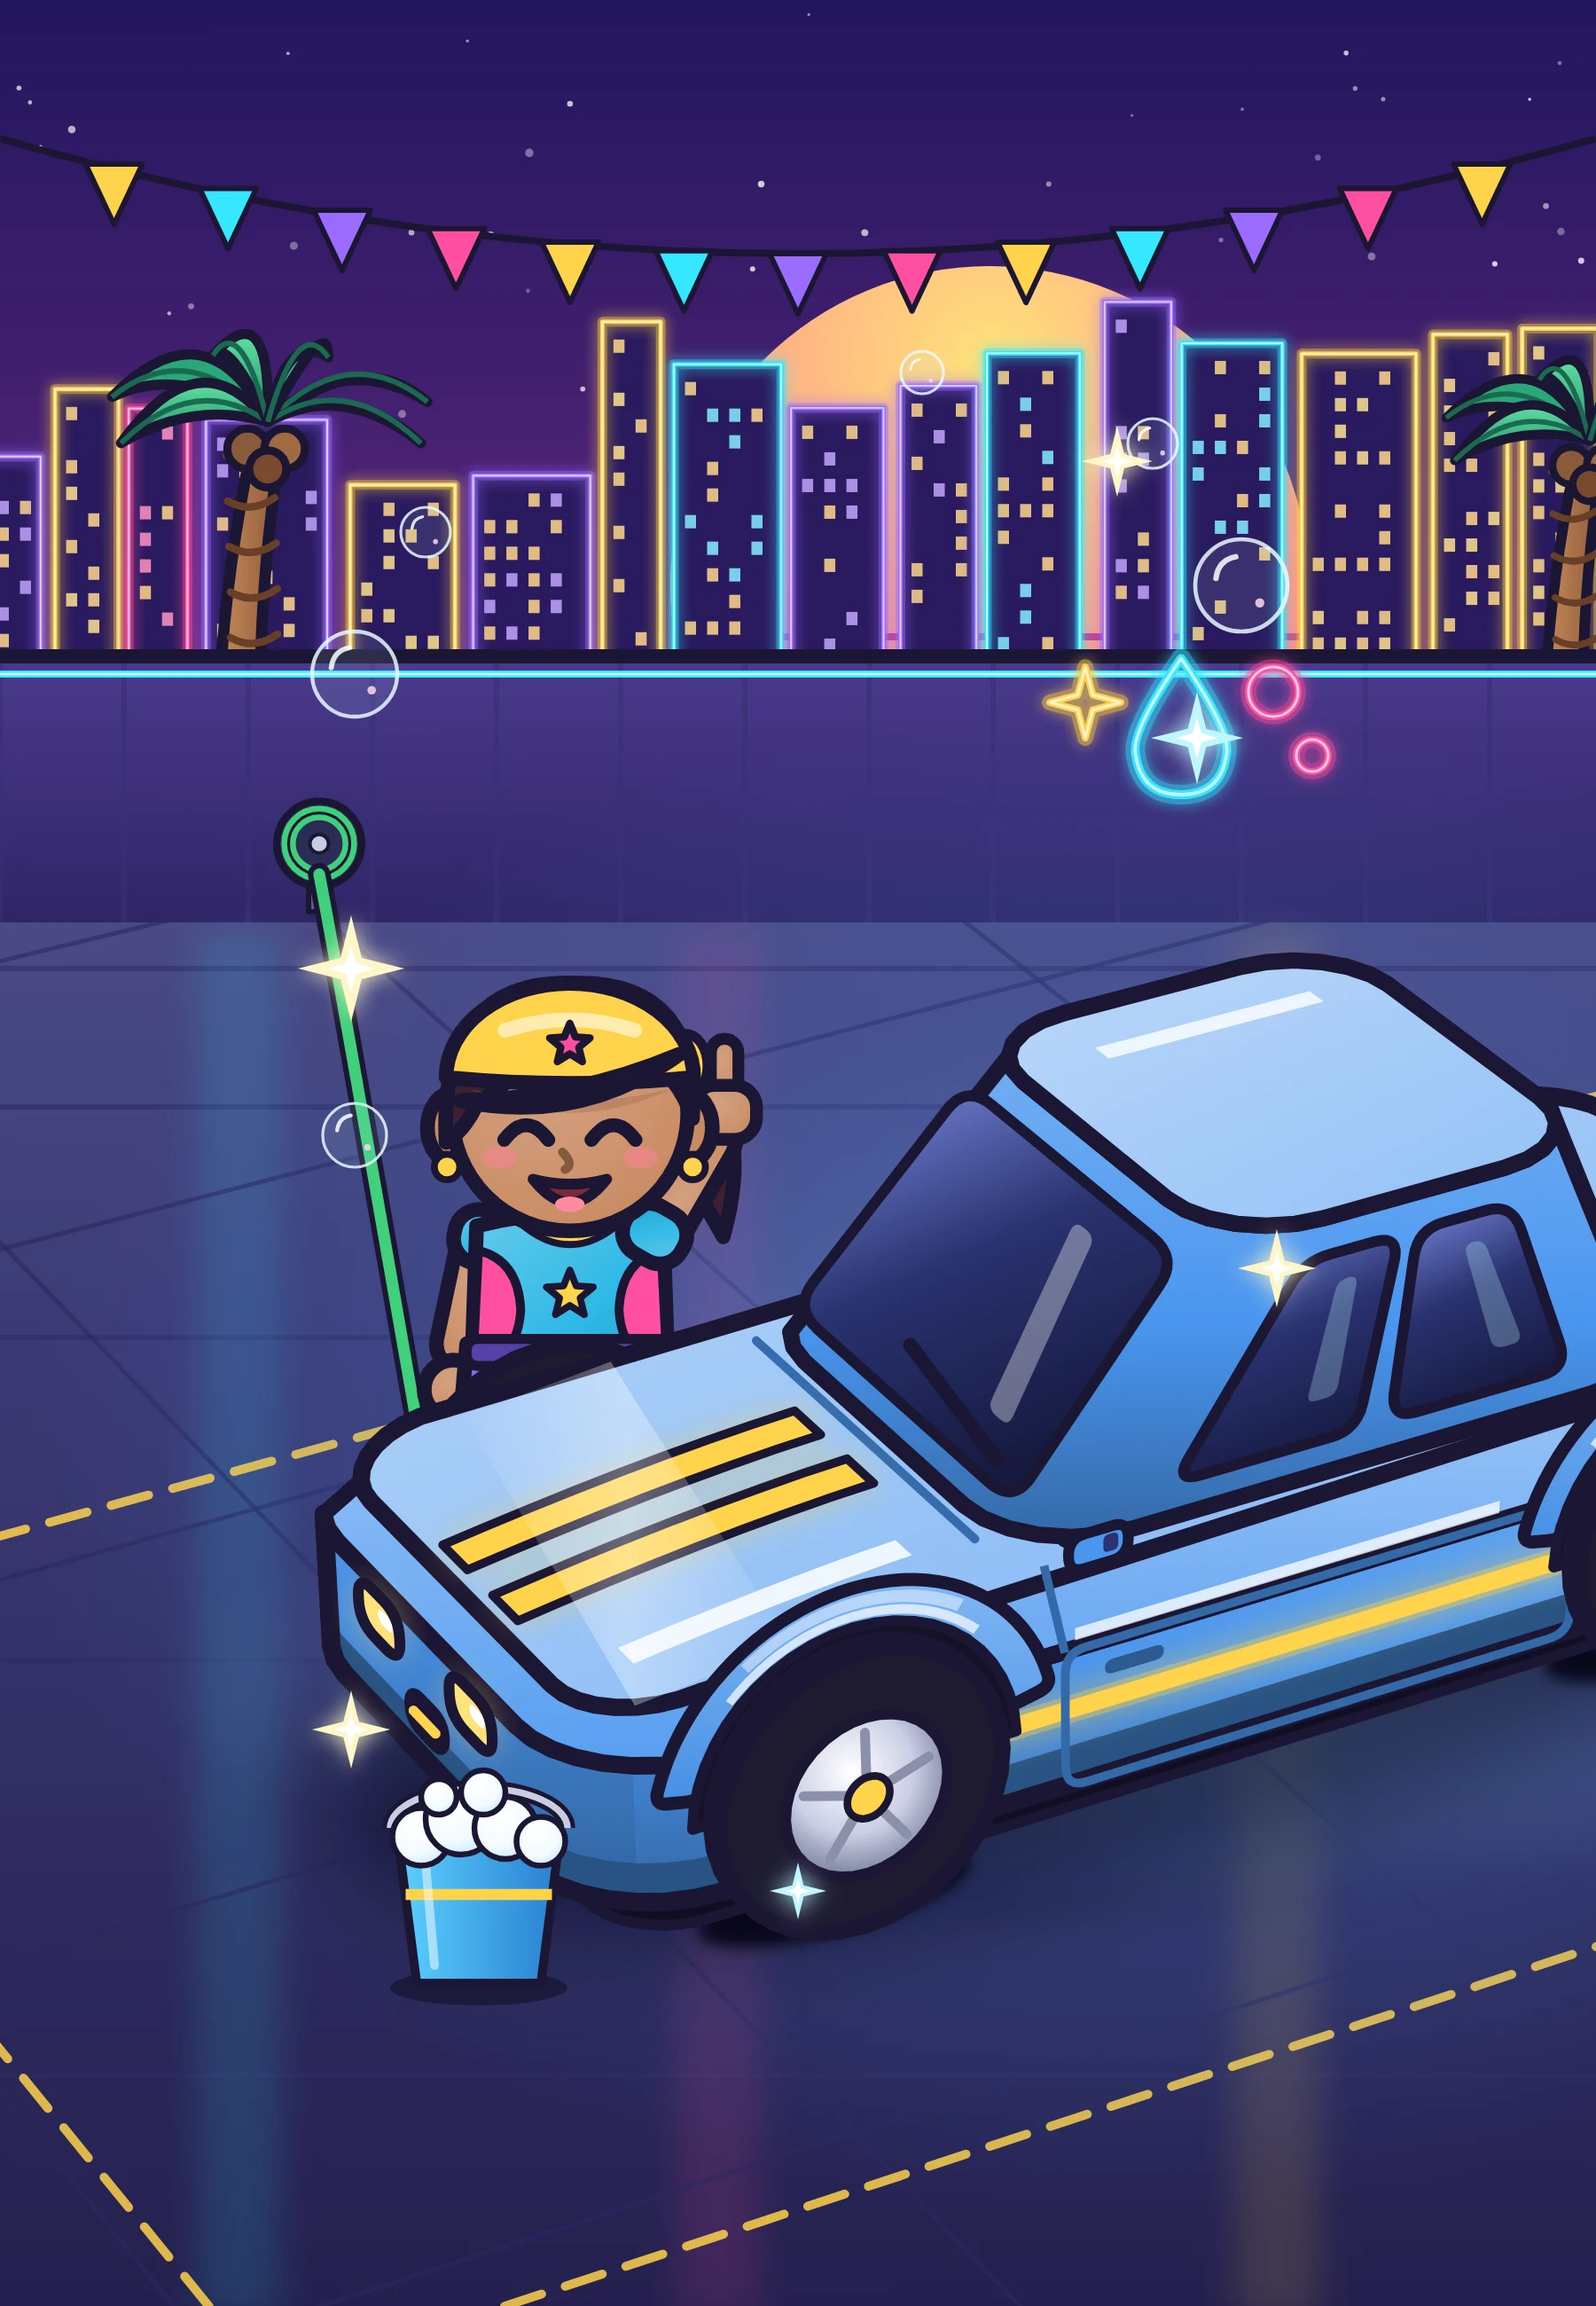
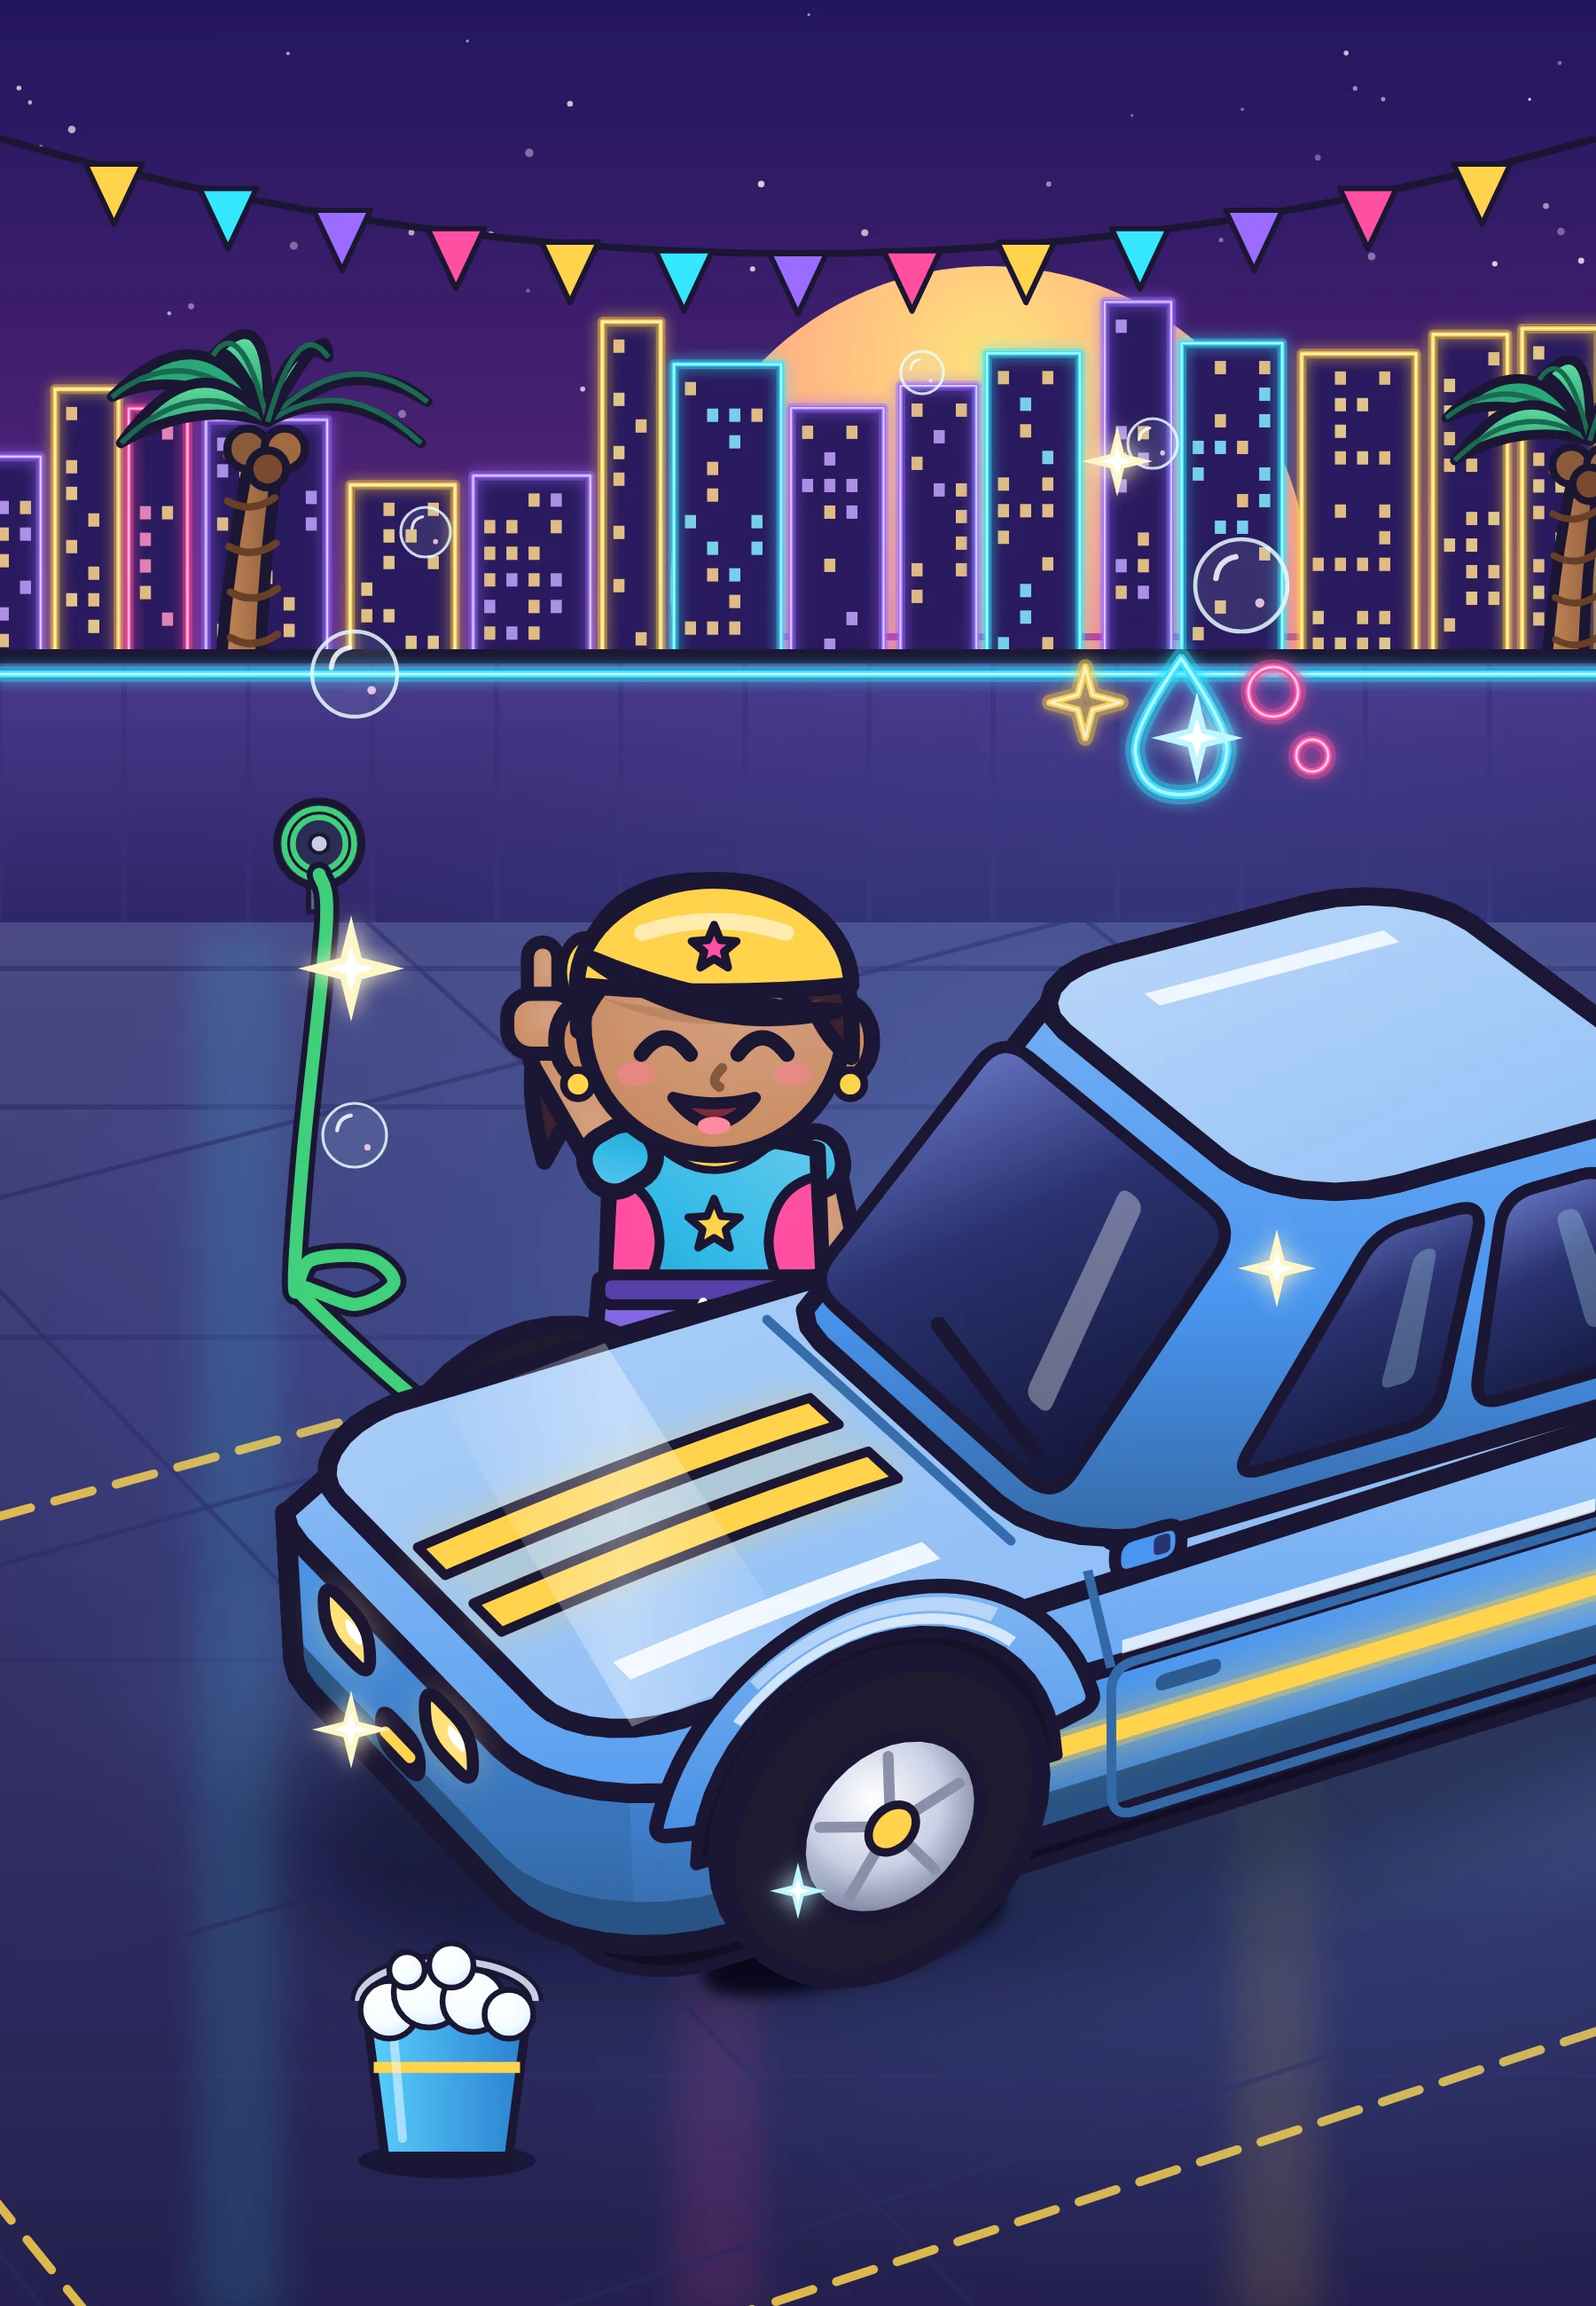
WIP: Nebula space-hopper rider + rival palettes, GTA glow fix + wash v8, MLS round 8, render-svg safe-filter detection
Claude-Session: https://claude.ai/code/session_011bftBeXudnSzAMBxDFXhpR

diff --git a/game.config.js b/game.config.js
@@ -210,15 +210,15 @@ window.GAME = {
           bg: "wash_silver", spotSprites: ["mud_a", "mud_b", "mud_c"], brush: "sponge", brushTip: { x: 0.363, y: 0.794 },
           spots: { base: 4, growEvery: 2, max: 9, rubs: 3, size: 150, minGap: 0.12,
                    // the hood top, then the door panel, as perspective QUADS (washAreas() quads in tools/art/neon.cjs)
-                   area: [{ quad: [[0.616, 0.618], [0.405, 0.675], [0.262, 0.575], [0.465, 0.522]], margin: 0.05 },
-                         { quad: [[0.759, 0.694], [0.716, 0.703], [0.716, 0.662], [0.759, 0.653]], margin: 0.05, max: 1 }] },   // front of the door: room for one spot
+                   area: [{ quad: [[0.605, 0.679], [0.384, 0.739], [0.249, 0.645], [0.463, 0.589]], margin: 0.05 },
+                         { quad: [[0.76, 0.757], [0.707, 0.769], [0.707, 0.724], [0.761, 0.713]], margin: 0.05, max: 1 }] },   // front of the door: room for one spot
           // phone held sideways: the whole car in 3/4 view (same areas order: hood, side — washAreas() in neon.cjs)
           wide: { bg: "wash_silver_wide", bgDone: "wash_silver_wide_done", brushRest: { x: 0.82, y: 0.84 },
-                  area: [{ quad: [[0.451, 0.631], [0.301, 0.721], [0.201, 0.574], [0.345, 0.491]], margin: 0.05 },
+                  area: [{ quad: [[0.451, 0.631], [0.301, 0.721], [0.218, 0.599], [0.363, 0.515]], margin: 0.05 },
                          { quad: [[0.681, 0.723], [0.525, 0.794], [0.525, 0.641], [0.683, 0.574]], margin: 0.05 }],
-                  keepVisible: [{ x: 0.192, y: 0.265, w: 0.119, h: 0.219 }, { x: 0.176, y: 0.573, w: 0.083, h: 0.293 }] },
+                  keepVisible: [{ x: 0.192, y: 0.265, w: 0.119, h: 0.219 }, { x: 0.313, y: 0.39, w: 0.036, h: 0.064 }, { x: 0.176, y: 0.573, w: 0.083, h: 0.293 }] },
           // the girl's face + the car's nose must stay on screen and clear of the HUD (probes/cuwide.cjs)
-          keepVisible: [{ x: 0.274, y: 0.326, w: 0.197, h: 0.141 }, { x: 0.215, y: 0.578, w: 0.126, h: 0.18 }],
+          keepVisible: [{ x: 0.345, y: 0.357, w: 0.205, h: 0.146 }, { x: 0.281, y: 0.44, w: 0.061, h: 0.043 }, { x: 0.185, y: 0.637, w: 0.131, h: 0.187 }],
           finishParticles: ["sparkle", "star"],
           foam: { colors: ["#ffffff", "#e3f9ff", "#c8f4ff"] },
         },

diff --git a/.claude/skills/visual-review/references/adversarial-review.md b/.claude/skills/visual-review/references/adversarial-review.md
@@ -20,6 +20,12 @@ Small recolours / pure position tweaks don't need it.
 4. Send the kept fixes to the art agent, re-render, and run a NEW reviewer
    (fresh eyes again) until the verdict is ≥ 8/10 with no "reads wrong at game size" issue,
    or two rounds bring nothing new.
+   **Not converging?** If 3 rounds stay below 7/10 (scores oscillate, reviewers contradict each other's
+   coordinates), STOP patching numbers: re-brief the artist around ONE concrete real-world reference that
+   matches the situation (e.g. "a kid on a space hopper, from behind" for a robot riding a ball, "a jockey from
+   behind" for a horse rider) and redesign the pose from it; then review again from scratch.
+   Pass each reviewer the CURRENT in-game screenshots (re-shoot after every art change): a stale screenshot
+   once produced a false "start line" blocker.
 5. Only then show the owner, with a one-line summary of what the review caught.
    Big scope changes the review suggests (new engine feature, new art layers) — tell the owner
    in one line and proceed unless it reverses one of their decisions.
